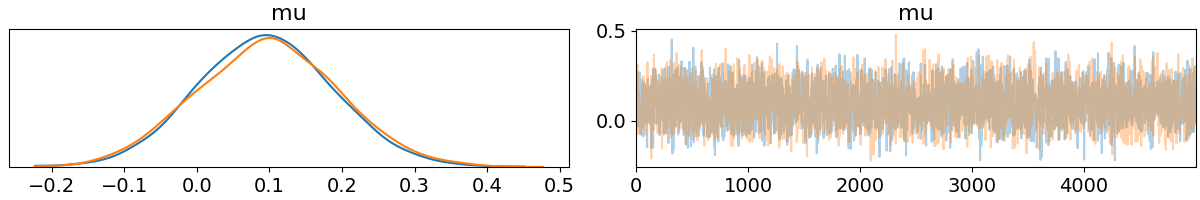
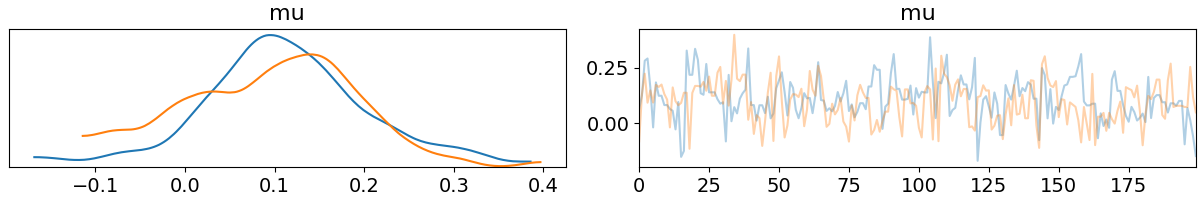
commit

diff --git a/bayes/main.py b/bayes/main.py
@@ -13,13 +13,28 @@ print(np.mean(x_sample_10))
 
 def sample10():
 	print('----------010')
+	# 単純なガウス分布の平均パラメータの推定
 	with pm.Model() as model_10:
 		mu = pm.Normal('mu', mu=0., sd=0.1)
+		print('===001')
+		print(mu)
 		x = pm.Normal('x', mu=mu, sd=1., observed=x_sample_10)
+		print('===002')
+		print(x)
 	with model_10:
+		# サンプリングの初期値として、MAP推定の結果を利用
 		start = pm.find_MAP()
+		print('===003')
+		print(start)
+		# No-U-Turn Sampler の略。サンプリング手法。
 		step = pm.NUTS()
-		trace = pm.sample(2000, step, start)
+		print('===004')
+		print(step)
+		# 100イテレーション
+		trace = pm.sample(100, step, start)
+		print('===005')
+		print(trace)
+	print('===006')
 	print(pm.traceplot(trace))
 	print(pm.summary(trace).round(2))
 	plt.savefig('result_10')
@@ -33,7 +48,7 @@ def sample10A():
 	with model_10:
 		start = pm.find_MAP()
 		step = pm.NUTS()
-		trace = pm.sample(5000, step, start)
+		trace = pm.sample(200, step, start)
 	print(pm.traceplot(trace))
 	plt.savefig('result_10A')
 
@@ -46,34 +61,37 @@ def sample10B():
 	with model_10:
 		start = pm.find_MAP()
 		step = pm.NUTS()
-		trace = pm.sample(10000, step, start)
+		trace = pm.sample(300, step, start)
 	print(pm.traceplot(trace))
 	plt.savefig('result_10B')
 
 
-def sample100():
-	print('----------100')
-	with pm.Model() as model_100:
-		mu = pm.Normal('mu', mu=0., sd=0.1)
-		x = pm.Normal('x', mu=mu, sd=1., observed=x_sample_100)
-	with model_100:
-		start = pm.find_MAP()
-		step = pm.NUTS()
-		trace = pm.sample(2000, step, start)
-	print(pm.traceplot(trace))
-	plt.savefig('result_100')
-
-
 def sample1000():
-	print('---------1000')
-	with pm.Model() as model_1000:
+	print('----------010')
+	# 単純なガウス分布の平均パラメータの推定
+	with pm.Model() as model_10:
 		mu = pm.Normal('mu', mu=0., sd=0.1)
+		print('===001')
+		print(mu)
 		x = pm.Normal('x', mu=mu, sd=1., observed=x_sample_1000)
-	with model_1000:
+		print('===002')
+		print(x)
+	with model_10:
+		# サンプリングの初期値として、MAP推定の結果を利用
 		start = pm.find_MAP()
+		print('===003')
+		print(start)
+		# No-U-Turn Sampler の略。サンプリング手法。
 		step = pm.NUTS()
-		trace = pm.sample(2000, step, start)
+		print('===004')
+		print(step)
+		# 100イテレーション
+		trace = pm.sample(100, step, start)
+		print('===005')
+		print(trace)
+	print('===006')
 	print(pm.traceplot(trace))
+	print(pm.summary(trace).round(2))
 	plt.savefig('result_1000')
 
 
@@ -81,8 +99,7 @@ def main():
 	sample10()
 	sample10A()
 	sample10B()
-	# sample100()
-	# sample1000()
+	sample1000()
 	
 
 if __name__ == '__main__':
